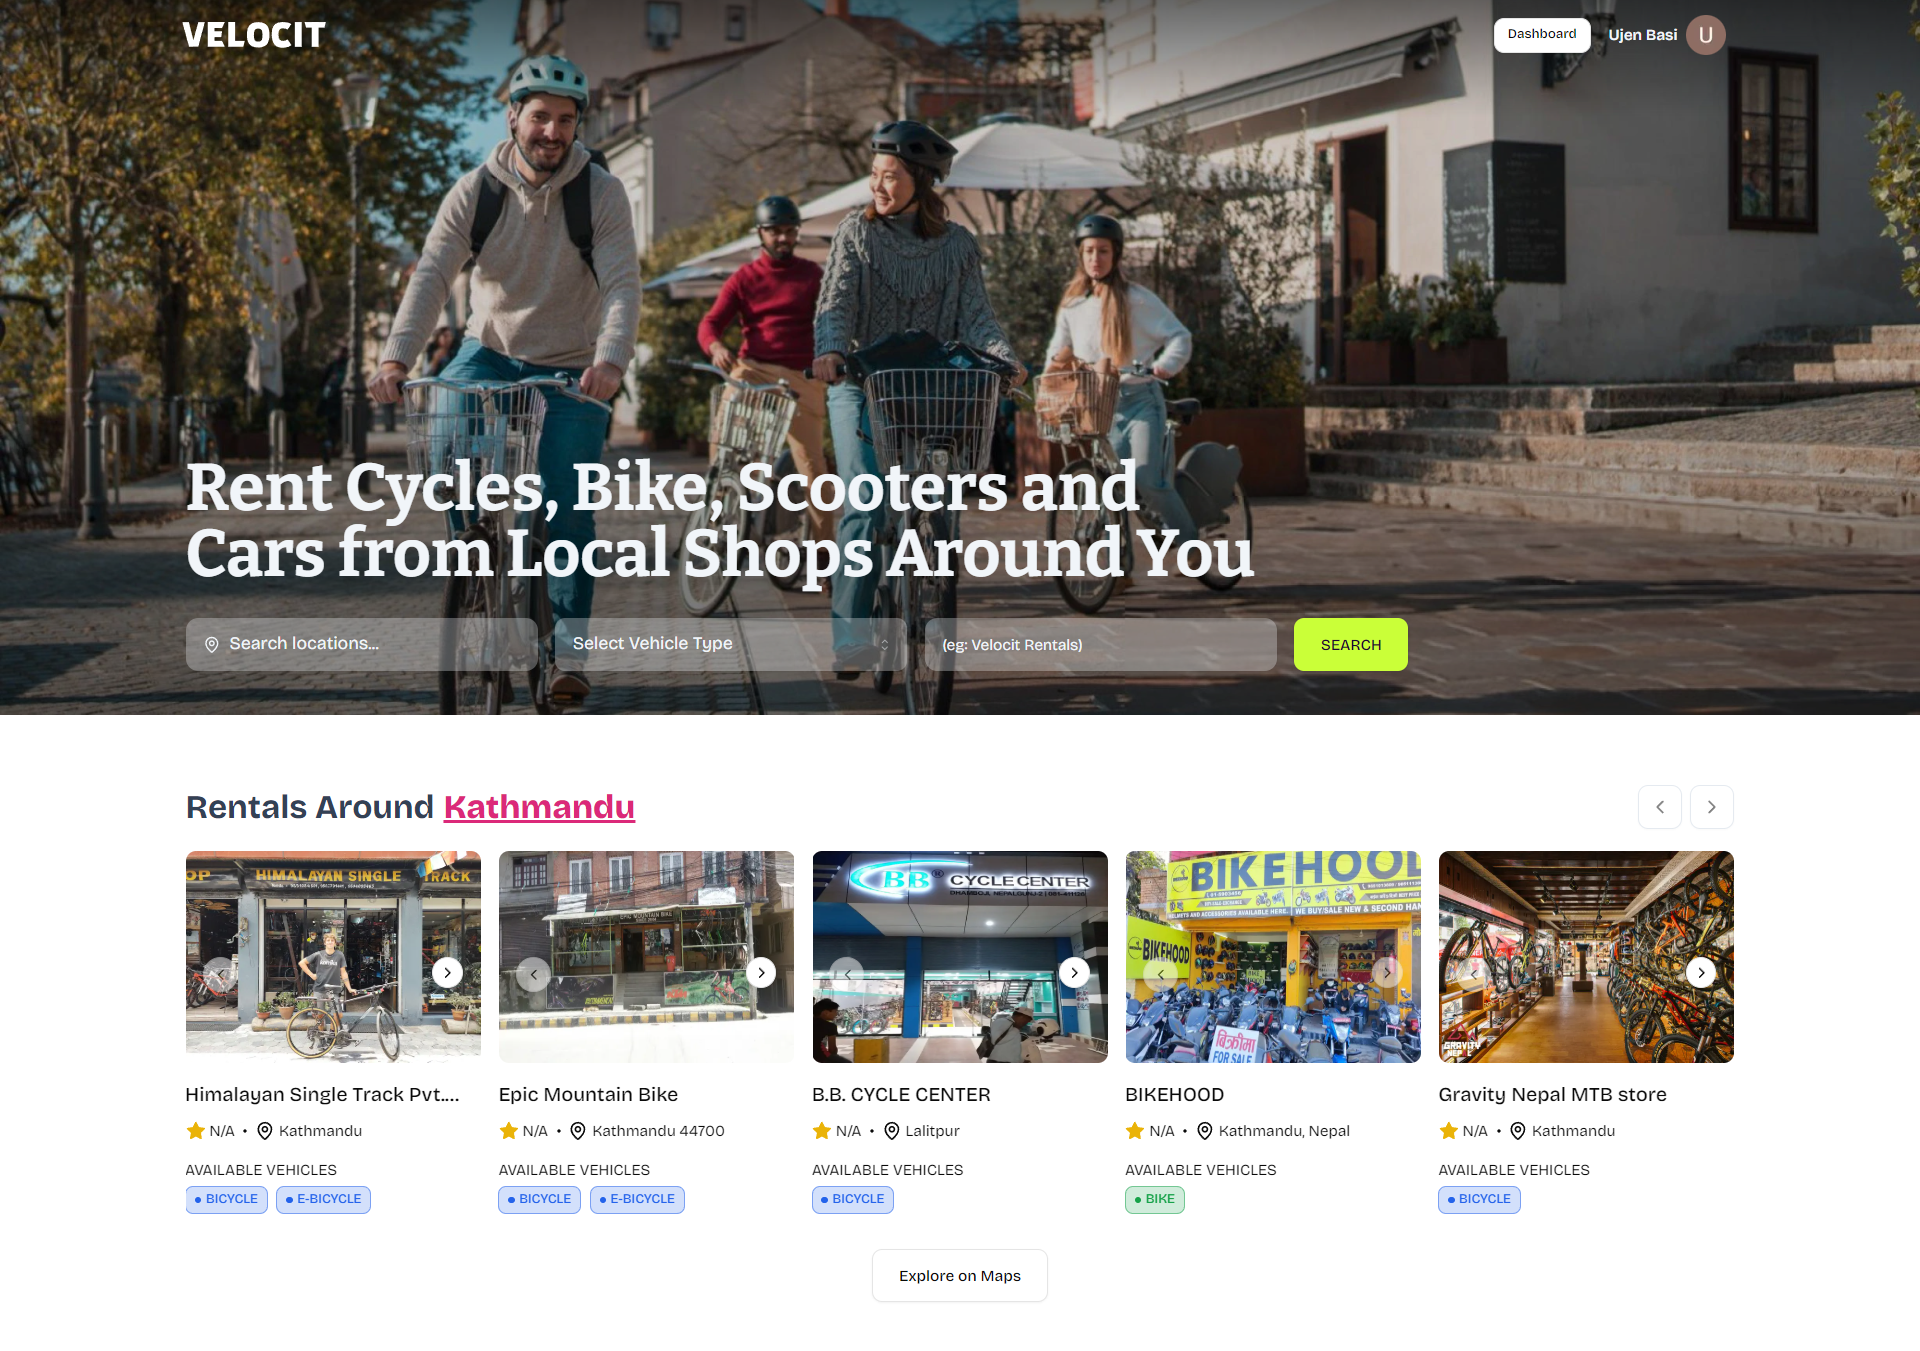
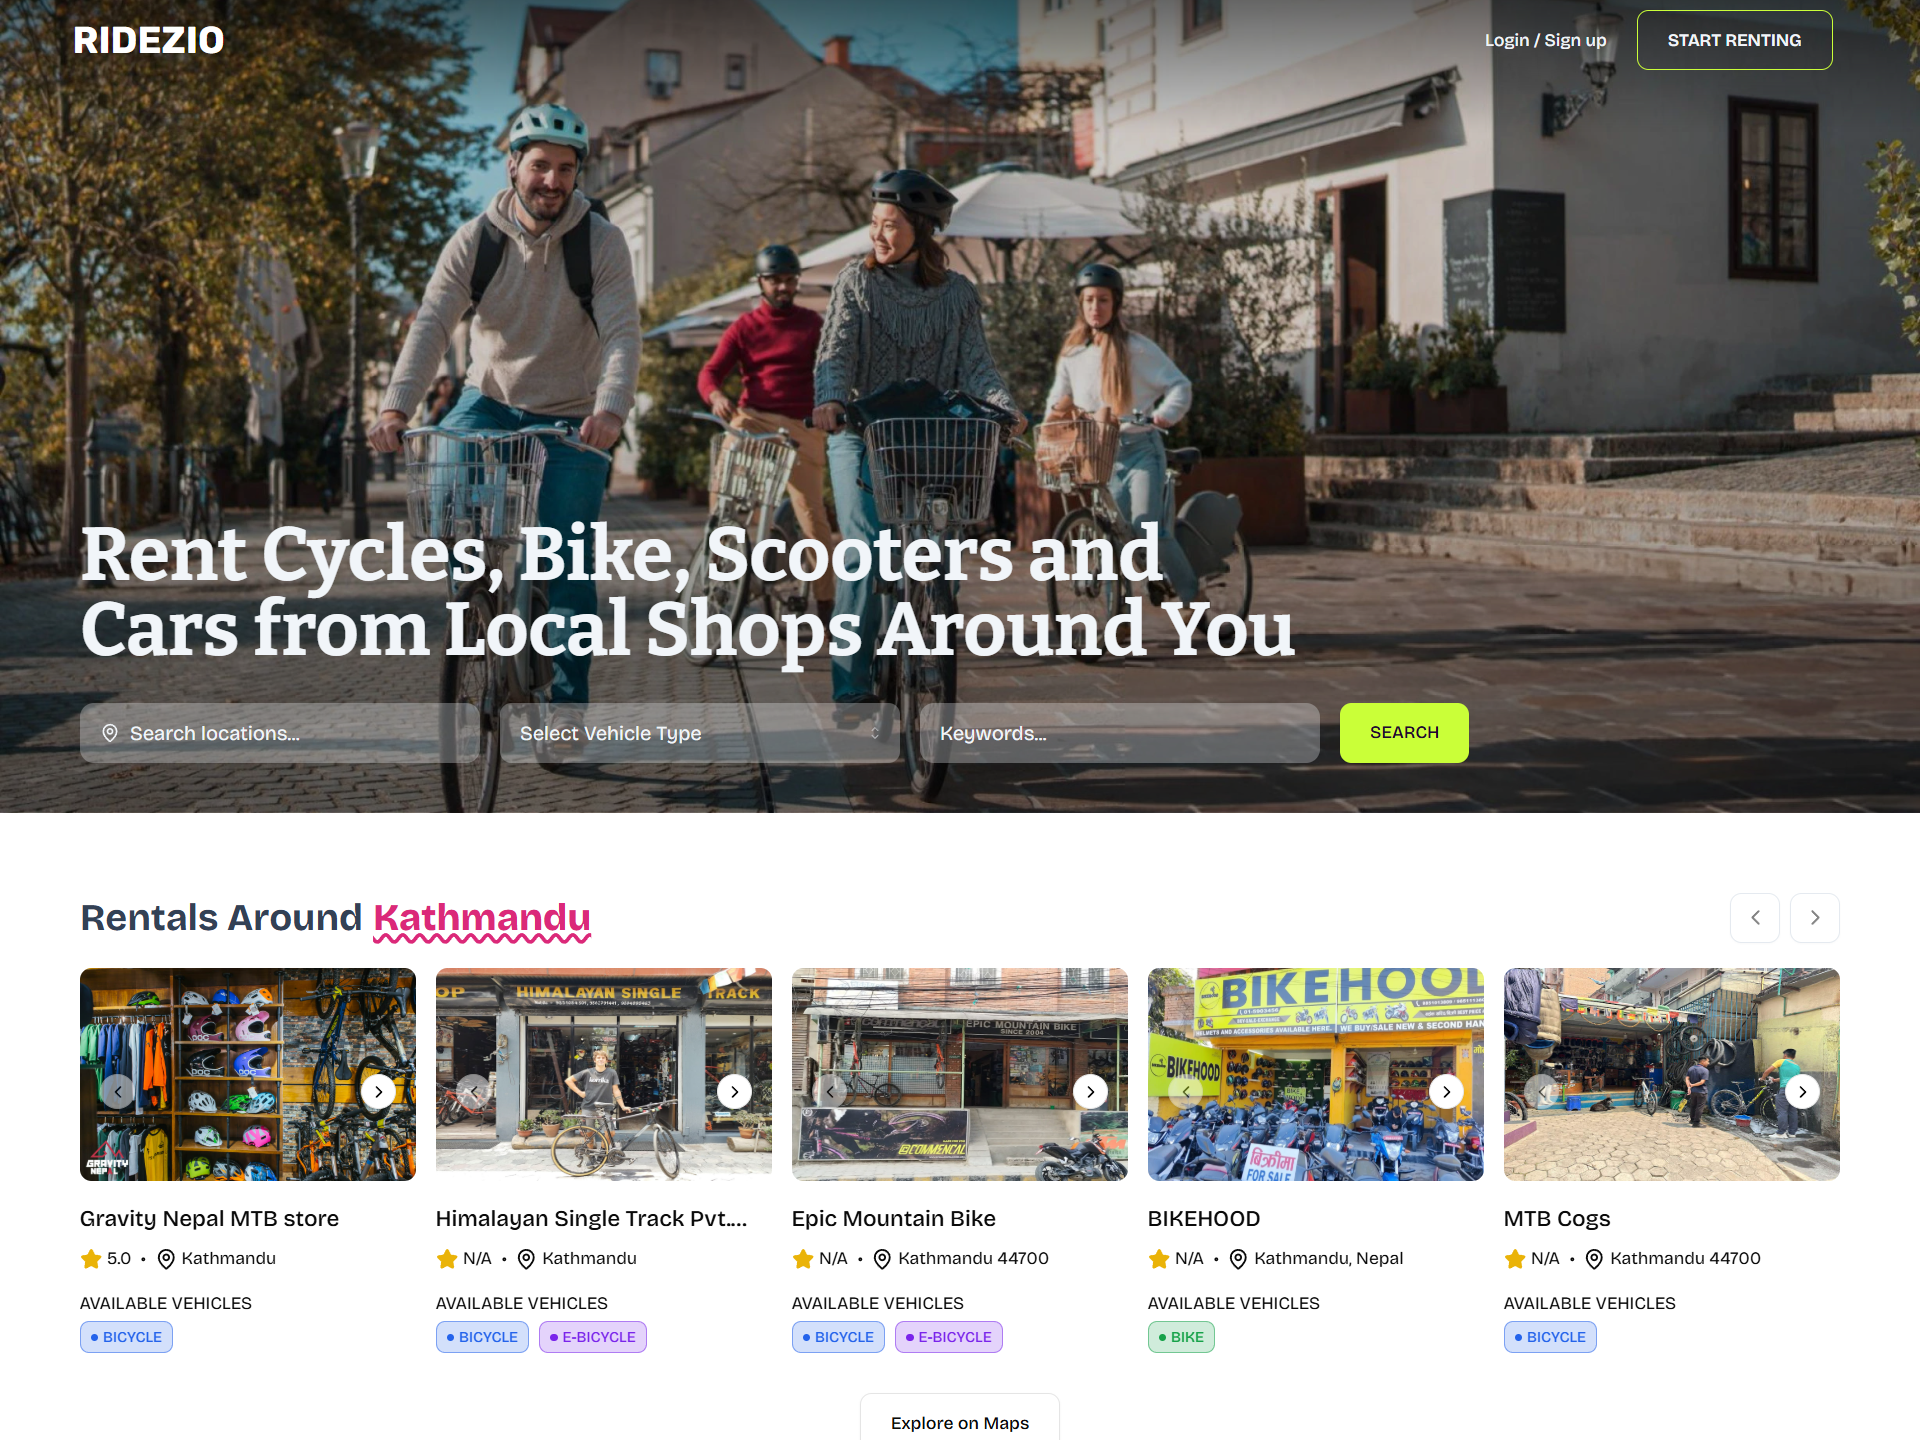
chore: update heading and project

diff --git a/src/app/_components/HeroSection.tsx b/src/app/_components/HeroSection.tsx
@@ -22,7 +22,8 @@ const HeroSection = () => {
         <AnimatedElement
           el="h1"
           once={true}
-          text="I'm a Full Stack Developer, building things for fun."
+          // text="I'm a Full Stack Developer, building things for fun."
+          text="Building impactful, scalable apps with code, creativity, reliability."
           className={`text-4xl lg:text-6xl w-9/12 2xl:w-8/12 mb-6 lg:leading-snug font-semibold text-slate-50 ${merriweather.className}`}
         />
 
@@ -37,11 +38,9 @@ const HeroSection = () => {
           }}
           variants={defaultAnimations}
         >
-          Full stack developer who enjoys building meaningful products with
-          clear goals. I love writing code and creating things that are both
-          useful and interesting. Frontend makes me smile❤. Backend makes me
-          Google/GPT errors for hours😫. My superpower? Knowing exactly what to
-          Google.
+          I&apos;m Ujen Basi from <u>Nepal</u>, a full stack developer who loves
+          building useful, meaningful things. Frontend makes me smile ❤,
+          backend makes me Google 😫. My superpower? Knowing what to search.
         </motion.span>
       </div>
     </section>

diff --git a/src/app/_constants/index.ts b/src/app/_constants/index.ts
@@ -62,14 +62,15 @@ export const projects = [
   },
   {
     id: "4",
-    title: "Velocit - Vehicle Rental Platform",
+    title: "Ridezio - Vehicle Rental Platform",
     description:
-      "A platform for  connecting users with rental shops to rent bikes, scooters, cars, and more based on location and duration.",
+      "A platform for connecting users with rental shops to rent bikes, scooters, and more based on location and duration. Mobile version will be launching soon...",
     why_i_build: [
       "Identified a Market Gap",
       "Build a production ready application",
       "Learn about the payment gateway",
-      "Deep dive into all things",
+      "Users had no easy way to compare or book vehicles",
+      "Inspired by how Airbnb solved similar problems for homes",
     ],
     tech: [
       "Next.js",
@@ -81,6 +82,8 @@ export const projects = [
       "Esewa Payment Integration",
       "Cloudinary",
       "Leaflet Map",
+      "Expo",
+      "React-Native",
     ],
     image: "/work/5.png",
     link: {
